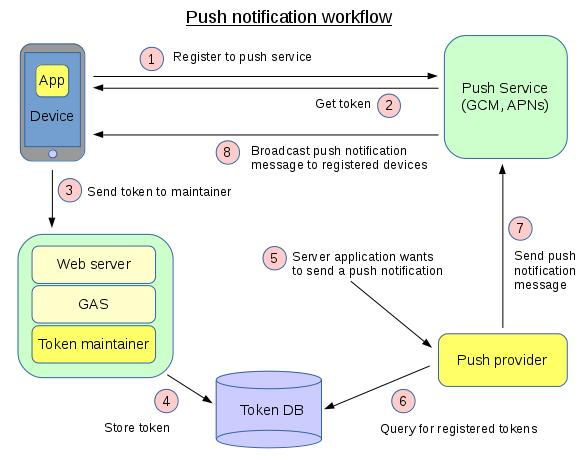
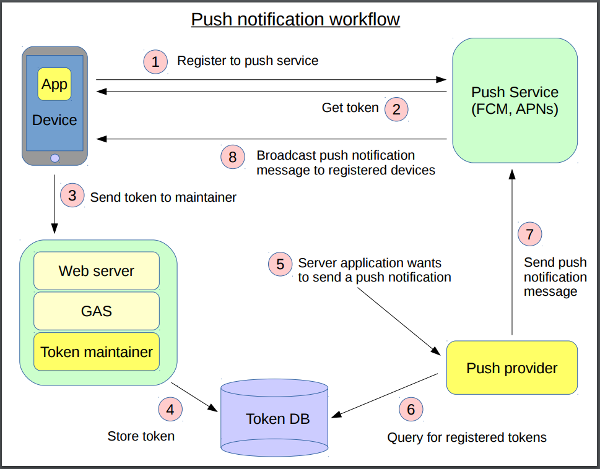
Migration from Google Cloud Messaging to Firebase Cloud Messaging.

diff --git a/README.md b/README.md
@@ -2,7 +2,7 @@
 
 ## Description
 
-This demo shows how to implement push notification with Google Cloud Messaging (GCM) and with Apple Push Notifications (APNs).
+This demo shows how to implement push notification with Firebase Cloud Messaging (FCM) and with Apple Push Notifications (APNs).
 
 The sources of this demo have been used to write the
  [Genero push notification section of the documentation](http://4js.com/online_documentation/fjs-fgl-manual-html/#fgl-topics/c_fgl_mobile_push_notifications.html)
@@ -13,8 +13,8 @@ The demo uses by default an SQLite database named "tokendb".
 
 If this DB file does not exist, token_maintainer.4gl will create it.
 
-You can switch between GCM and APNs technos with the same token database:
-The programs check for the sender_id, which is specific to GCM.
+You can switch between FCM and APNs technos with the same token database:
+The programs check for the sender_id, which is specific to FCM.
 
 The token_maintainer.4gl program is a Web Service program and should normally be running behing a GAS.
 For development/test purpose, it can be run standalone.
@@ -24,18 +24,21 @@ The token maintainer must be started first, to collect device registration reque
 
 ## Prerequisites
 
-* Genero BDL 3.10.11+
+* Genero BDL 3.10.18+
+* Genero Mobile for Android 1.30.18+
+* Genero Mobile for iOS 1.30.14+
 * Genero Desktop Client 3.10+
 * Genero Studio 3.10+
 * GNU Make
 
-## Using Google Could Messaging
+## Using Firebase Could Messaging
 
-### Prepare for GCM
+### Prepare for FCM
 
-Create a GCM project at Google to get API Key and Sender ID.
+In the FCM console (https://console.firebase.google.com), create a new project,
+get the Server Key and the google-services.json configuration file.
 
-Read the topic about GCM in the [Genero documentation](http://4js.com/online_documentation/fjs-fgl-manual-html/#fgl-topics/c_fgl_mobile_push_notif_gcm.html)
+For more details, see the topic about FCM in the [Genero documentation](http://4js.com/online_documentation/fjs-fgl-manual-html/#fgl-topics/c_fgl_mobile_push_notif_gcm.html)
 
 ### Build the Android app
 
@@ -43,8 +46,9 @@ Plug your Android device.
 
 Go to the `app` sub-directory.
 
+Copy the google-services.json configuration file in the `app/resources/android` directory.
+
 In main.4gl:
-* Define the GCM_SENDER_ID constant with the GCM Sender ID.
 * Define the REG_SERVER constant with the hostname where the token_maintainer runs.
 * Define the REG_PORT with the port used by token_maintainer.
 
@@ -70,8 +74,8 @@ $ make package_gma
 
 Go to the `server` sub-directory.
 
-In gcm_push_server.4gl:
-* Define the GCM_API_KEY constant with the GCM API KEY.
+In fcm_push_server.4gl:
+* Define the FCM_SERVER_KEY constant with the FCM Server Key.
 
 In token_maintainer.4gl:
 * Define the DEFAULT_PORT constant with the TCP port number to be used in FGLAPPSERVER.
@@ -87,19 +91,19 @@ $ make clean all
 * Setup GST Desktop environment
 * Open the token_maintainer.4pw project
 * Build all
-* Open the gcm.4pw project
+* Open the fcm.4pw project
 * Build all
 
-### Test GCM
+### Test FCM
 
 1. On the server
    * Start the token_maintainer in background (fglrun token_maintainer &)
-   * Start the GCM push server (fglrun gcm_push_server) - has GUI interface!
+   * Start the FCM push server (fglrun fcm_push_server) - has GUI interface!
 2. On the Android device:
    * Start the app
    * Tap register button, you should get a registration token
 3. On the server:
-   * Go to the GCM push server program and click the send button
+   * Go to the FCM push server program and click the send button
 4. On the Android device:
    * Check that the notification arrives on the device
    * Tap unregister button
@@ -117,7 +121,6 @@ Plug your iOS device.
 Go to the `app` sub-directory.
 
 In main.4gl:
-* Define the GCM_SENDER_ID constant as ""
 * Define the REG_SERVER constant with the hostname where the token_maintainer runs.
 * Define the REG_PORT with the port used by token_maintainer.
 
